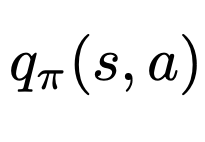
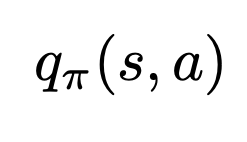
to test through Q

Changed region(s): [[0.0293, 0.2254, 0.6732, 0.6761], [0.7024, 0.2254, 0.9659, 0.6761]]

diff --git a/Report.md b/Report.md
@@ -1,10 +1,15 @@
 [RLLoop]: images/ReinforcementLearningLoop.png "Reinforcement Learning Definition"
 [Gt]: images/(3.7)_Gt.png "Goal as sum of future rewards"
 [Gt_discounted]: images/(3.8)_Gt_discount_reward.png "Goal as sum of future rewards discounted by gamma"
-[Qpi]: images/(3.13)_Action-Value_Function_Qpi.png "Reinforcement Learning Definition"
-[qpi(s,a)]: images/qpi(s,a).png "Q pie for state, S, and action, A"
+[vpiFormal]: images/(3.12)_State-Value_Function_Vpi.png "State-Value Function"
+[qpiFormal]: images/(3.13)_Action-Value_Function_Qpi.png "Action-Value Function"
+[vpi]: images/vpi.png "State-Value Function"
+[qpi]: images/qpi.png "Action-Value Function"
+[vpi(s)]: images/qpi(s,a).png "Value for policy pie, given state, S"
+[qpi(s,a)]: images/qpi(s,a).png "Q value for policy pie, given the state action pair, S, and, A"
 [St]: images/qpi(s,a).png "State S, at timestep t."
 [At]: images/qpi(s,a).png "Action A, at timestep t."
+[q-learningFormal]: images/(6.8)q-learningFormal.png
 
 [DataTable3]: images/DataTable3.png "The effects of replay and separating the target Q-network"
 
@@ -63,33 +68,39 @@ Now we can imagine that, over time, an agent can learn to predict the future val
 
 The State-Value function is a powerful tool, because by learning the value of each state in the MDP, the agent does not have to do a nested tree search. At a given timestep, the agent can simply lookup the value of each state that each avaliable action would result in and select the action that results in the highest state-value.
 
-The State-Value function is denoted as:
+The State-Value function is denoted as: ![vpi]
+
+The formal definition for the State-Value Function is:
+
+![vpiFormal]
+
+(The Value for policy pie, given state, S, is equivilant to, the expected discounted return, if the agents starts at state, s, and then uses policy, pi, to choose actions for all future time steps)
 
 ### The Action-Value Function
 
 There is one problem with the State-Value Function approach: the agent needs access to the dynamics of the MDP in order to calculate the next state produced by each action. For games like Chess or Go, this is trivral. However, for many real world situations, we do not have access to the dynamics.
 
-What if, rather than learn the value of each state, the agent learns the value of every action at each state. Now the agent can simply choose the action with the highest value. This is called the Action-Value Function and is denoted as:
+What if, rather than learn the value of each state, the agent learns the value of every action at each state. Now the agent can simply choose the action with the highest value. This is called the Action-Value Function and is denoted as: ![qpi]
 
-![Qpi]
-Q pie
+The formal definition for the Action-Value Function is
 
-Learning the Action-Value Function, or Q learning form the bases for a family of algorthems in Reinforcement Learning. This is the foundation for the DQN algorthem.
+![qpiFormal]
 
+(The q value for policy pie, given the state action pair, S, and, A, is equivilant to, the expected discounted return, if the agents starts at state, s, chooses action, a, and then uses policy, pi, to choose actions for all future time steps)
 
-Policy - ref (pi) Policy definition
+The Q-learning algorthem, (Watkins, 1989), was one of the early breakthroughs in reinforcement learning. Q-learning forms the bases for a family of algorthems in Reinforcement Learning and is the foundation for the DQN (Deep Q Network) algorthem.
 
+Formally, the Q-learning algorthem is defined as:
 
+![q-learningFormal]
 
-
-Q-learning: Off-policy TD Control
-One of the early breakthroughs in reinforcement learning was the development of an off-policy TD control algorithm known as Q-learning (Watkins, 1989), defined by
+(Let the Q value for the state-action pair, S and, A, at timestep t, be its current value, plus, the step size, alpha, multiplied by, the reward, R, at timestep, t+1, plus, gamma, multipled by, the maximum state-value, Q, of all actions, for the state, s, at timestep, t+1, minus, the state-value, Q, for the state-action pair, S and A, at timestep ,t)
 
 
 ## The DQN Algorithm
-The alogrothem used is based on the DQN Algorthem [CITE] which was successful in using a neural network as a nonlinear function approximator to represent the action value function to master the domain of Atari 2600 video games. 
+The DQN, (Deep Q Network), Algorthem [CITE] was successful in using a neural network as a nonlinear function approximator to represent the action value function to master the domain of Atari 2600 video games. 
 
-As well as using a neural network, the DQN algorthem introduces two ideas that address the tendancy of nonlinear function aspproximotors to become unstable or diverge:
+As well as using a neural network, the DQN algorthem introduces two ideas that address the tendancy of nonlinear function approximotors to become unstable or diverge:
 
 1) Experiance Replay: Observations are added to an experiance replay buffer which are then randomly sampled during the learning phase. The authors state that this removes correlations in the observation sequence and also smoothes over changes in the data distribution. This authors note that this idea is inspired by biology.
 
@@ -100,7 +111,7 @@ The authors demonstrate the impact of these two ideas on a subset of the Atari 2
 
 ![alt text][DataTable3]
 
-### My Implementation of the DQN Algorithm
+### Implementation of the DQN Algorithm
 
 The implementation of the DQN algorthem I used has a few changes from the DQN Atari paper:
 
@@ -109,17 +120,6 @@ The implementation of the DQN algorthem I used has a few changes from the DQN At
 * Neural Network design: The observation space I use here is much simpler than the pixel inputs used in the atari paper, therefor I use a simpler neuro network which enabled faster training.
 
 * Hyperparamaters: Again, because of the simpler nature of the Banana environment, I use different hyperparamaters to enable faster training. See below for the detail of what hyperparamaters I used.
-
-### Code Organization
-
-The code is organized into the following files
-
-* ```dqn_agent.py```: The implementation of the DQN algorthem including the hyperparamaters
-* ```model.py```: The model used for the neuralnetwork
-* ```learn.py```: The python script used to learn the environment and save the trained model.
-* ```play.py```: The python script used to learn the environment and save the trained model.
-
-
 
 ### Learning Phases
 
@@ -158,6 +158,26 @@ The ```target_Q``` values are calculated using the formula ```rewards + (gamma *
  * ```TAU``` is amount to move the target network towards the local network.
 
 
+### Code Organization
+
+The code is organized into the following files
+
+* ```dqn_agent.py```: The implementation of the DQN algorthem including the hyperparamaters
+* ```model.py```: The model used for the neuralnetwork
+* ```learn.py```: The python script used to learn the environment and save the trained model.
+* ```play.py```: The python script used to learn the environment and save the trained model.
+
+### Model Architecture 
+
+
+
+
+### Hyperparameters
+
+
+
+
+
 ## The Banana Environment
 The Banana environemnt is a modified version of the ML-Agents [Banana Collector](https://github.com/Unity-Technologies/ml-agents/blob/0.4.0/docs/Learning-Environment-Examples.md#banana-collector) environment.
 
@@ -171,16 +191,6 @@ The envionment provides four descrete actions
  * 1 - Move Backwards
  * 2 - Move Left
  * 3 - Move Right
-
-
-## Model Architecture 
-
-
-
-
-## Hyperparameters
-
-
 
 
 
